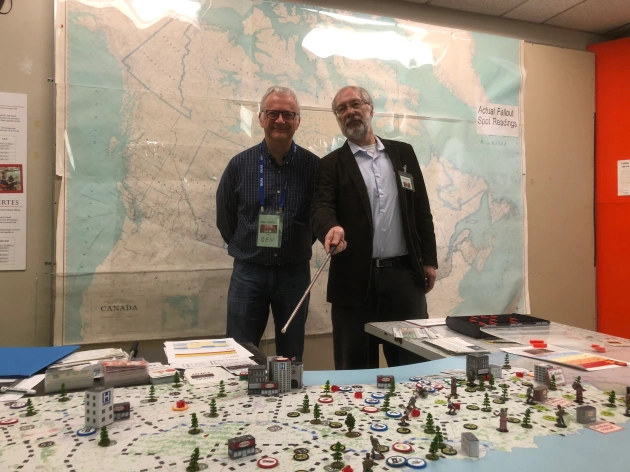
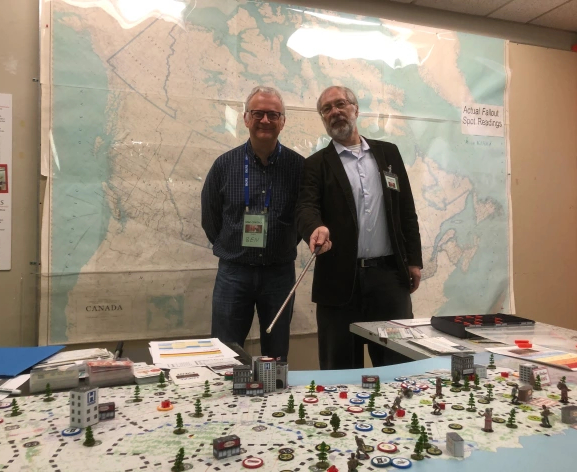
edited photos and layout for faq page

diff --git a/faq.html b/faq.html
@@ -64,7 +64,7 @@
         <h2>Where are your events held?</h2>
         <div class="faq-left">
             <img src="img/photos/faq/pointer.jpg" alt="A photo of two men in front of a map of Canada. One of them has a pointer, and is pointing at some model buildings sitting on a game board in front of them.">
-            <p>We run events in Ottawa, Ontario, Canada, but we have worked with groups from Toronto to Montreal, as well as international groups (see our Partners page). We have worked with venues such as the Diefenbunker Museum, Laurier House and the Ecclesiax Church, and are exploring other venues in town.</p>
+            <p>We run events in Ottawa, Ontario, Canada, but we have worked with groups from Toronto to Montreal, as well as international groups (see our <a href="/partners.html">Partners page</a>). We have worked with venues such as the Diefenbunker Museum, Laurier House and the Ecclesiax Church, and are exploring other venues in town.</p>
         </div>
     </section>
     
@@ -79,7 +79,7 @@
     <section>
         <h2>Can I hire you to run a private event?</h2>
         <div class="faq-left">
-            <img src="img/photos/faq/red-table.JPG" alt="A photo with four peopole sitting around a red table. There are many pieces of paper and game cards on the table, and a sign for the table that reads 'ICSS Aegis' and has a wing icon. In the background, there are more red and blue tables, with game pieces and people sitting at them.">
+            <img src="img/photos/faq/red-table.JPG" alt="A photo with three peopole sitting around a red table. There are many pieces of paper and game cards on the table, and a sign for the table that reads 'ICSS Aegis' and has a wing icon. In the background, there are red and blue tables, with game pieces and people sitting at them.">
             <p>We are always open to hosting private events, including bachelor parties, birthdays and corporate team building exercises. If you <a href="/contact.html">contact us</a> we can discuss your scope, audience and budget and come up with a custom experience for you.</p>
         </div>
     </section>
@@ -87,7 +87,7 @@
     <section>
         <h2>Where does the ticket cost go?</h2>
         <div class="faq-right">
-            <img src="img/photos/faq/ticket.JPG" alt="A photo of a red table, with game pieces, bins, and pieces of paper sitting on top. The photo is take low on the table, and a man in a baseball cap is sitting at the end of the table.">
+            <img src="img/photos/faq/map.jpg" alt="A closeup photo of a game board, showing different tokens and hexagons around a maps of Montréal and Cornwall.">
             <p>Usually our biggest expense is the venue. The rest of the money goes towards printing, components, insurance, and licensing fees for the systems we use. Generally we keep our ticket prices as low as possible to let as many people play as we can, and any leftover profit goes towards appetizers at the pub afterwards. Moving forward, we will be implementing a discounted price ticket available for anyone for whom cost is a barrier of entry.</p>
         </div>
     </section>
@@ -97,7 +97,7 @@
         <h2>Have more questions?</h2>
         <div class="faq-left">
             <img src="/img/photos/faq/focus.jpg" alt="A photo of three young women in a room with a map on the wall. One woman is typing on a laptop, one is standing behind her and looking at a notepad, and the third is sitting with another notepad and looking at the standing woman.">
-            <p>Just <a href="/contact.html">contact us</a>!</p>
+            <p>Feel free to <a href="/contact.html">reach out to us</a>! We're always happy to hear from you.</p>
         </div>
     </section>
     

diff --git a/css/omg.css b/css/omg.css
@@ -299,7 +299,9 @@ footer span a {
 
 .faq-left, .faq-right {
     display: flex;
-    justify-content: center;
+    justify-content: space-between;
+    align-items: center;
+    margin: 5rem 10%;
 }
 
 .faq-right {
@@ -307,15 +309,20 @@ footer span a {
 }
 
 .faq-left img, .faq-right img {
-    width: 40%;
+    width: 50%;
+    height: auto;
     border-radius: 3rem;
+    margin: 0;
 }
 
-.faq-left>p, .faq-right>p, .faq-right>div {
+.faq-left>p, .faq-right>p, .faq-right>div, .faq-left>div  {
     width: 40%;
-
+    text-align: justify;
 }
 
+.faq ~ section > h2 {
+    margin-left: 10%;
+}
 /******************************************
 /* ADDITIONAL STYLES
 /*******************************************/
